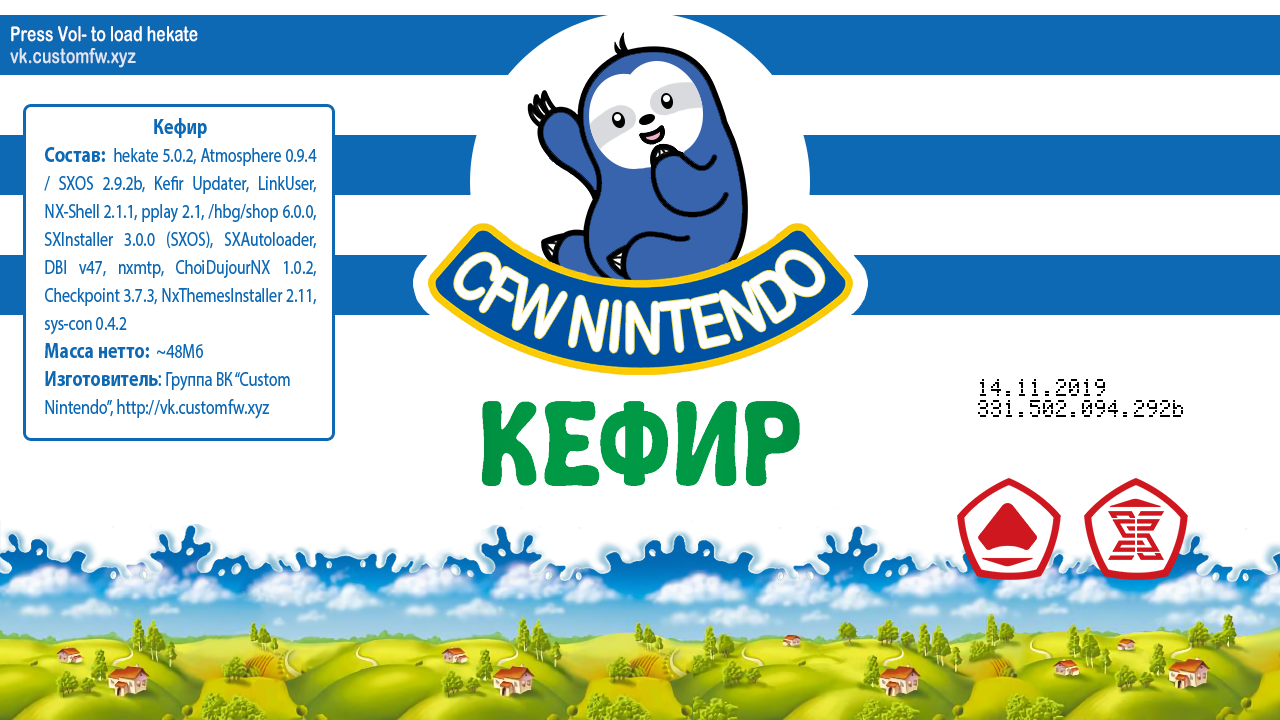
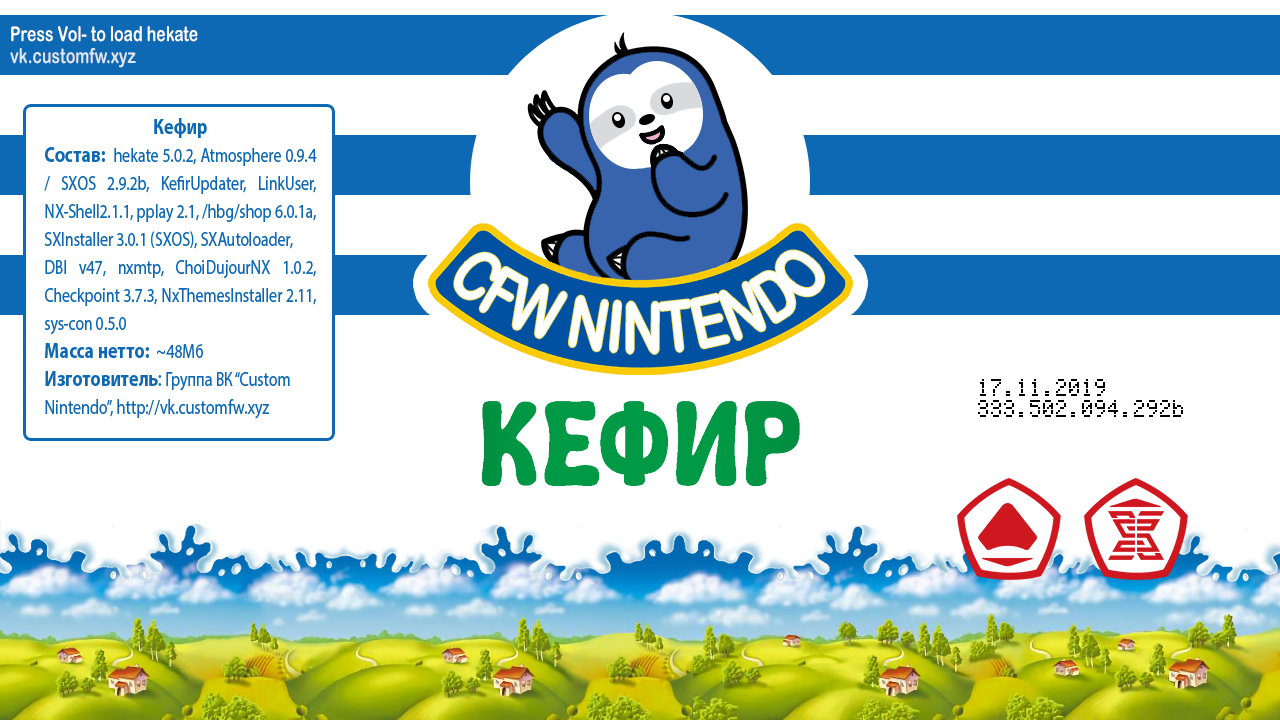
kefir

Changed region(s): [[0.0312, 0.2444, 0.25, 0.3667]]

diff --git a/kefir.html b/kefir.html
@@ -335,7 +335,7 @@
 <nav class="toc">
     <header><h4 class="nav__title"><i class="fa fa-file-text"></i> Разделы</h4></header>
 <ul class="toc__menu" id="markdown-toc">
-  <li><a href="#kefir-331" id="markdown-toc-kefir-331">KEFIR 331</a>    <ul>
+  <li><a href="#kefir-332" id="markdown-toc-kefir-332">KEFIR 332</a>    <ul>
       <li><a href="#внимание" id="markdown-toc-внимание"><strong>ВНИМАНИЕ!</strong></a></li>
       <li><a href="#состав-kefir" id="markdown-toc-состав-kefir">Состав kefir</a></li>
       <li><a href="#changelog" id="markdown-toc-changelog">Changelog</a></li>
@@ -357,7 +357,7 @@
 
 <hr />
 
-<h2 id="kefir-331">KEFIR 331</h2>
+<h2 id="kefir-332">KEFIR 332</h2>
 
 <p>В контексте этого руководства - сборник, состоящий из выбранного кастома, необходимых программ и скриптов, которые все это установят правильным образом. Подробнее про кефир <a href="https://vk.com/@switchopen-sostav-kefirachast-pervaya-obschaya-informaciya-o-sostave" target="_blank">здесь</a>. Зачем он нужен? Всё очень просто. Кефир содержит в себе самое полезное и проверенное временем ПО, которое в свежем кефире всегда идёт актуальной версии. Кефир устанавливается с помощью скрипта, который написан таким образом, чтобы удалять при установке все проблемные модули, из-за которых система моет работать нестабильно или не работать вовсе. При возникновении проблем, достаточно назвать версию кефира, чтобы сразу стало ясно какое именно ПО и какой версии сейчас на вашей приставке.</p>
 
@@ -405,9 +405,11 @@
 любую игру, удерживая зажатой клавишу R до тех пор, пока не запустится HBL.</p>
 
 <ul>
-  <li>[Обновлено] Tinfoil 6.0.1 - багфиксы</li>
-  <li>[Обновлено] pPlay 3.0 - перекомпелировано для совместимости с 9+, багфиксы</li>
-  <li>[Добавлено] sys-con 0.4.2 - модуль для атмосферы, позволяющий по USB подключить почти любые контроллеры</li>
+  <li>[Вернул] KefirUpdater 0.3.1 - пока допиливаю новый, используйте старый.</li>
+  <li>[Обновлено] Tinfoil 6.0.1a - багфиксы</li>
+  <li>[Обновлено] SXInstaller 3.01  - собран на базе свежего тинфоила</li>
+  <li>[Обновлено] sys-con 0.5.0 - Добавлена поддержка DualShock 4. Для работы геймпада второго поколения
+откройте config/sys-con/config_global.ini и измените use_dualshock_2nd_generation на true</li>
 </ul>
 
 <hr />
